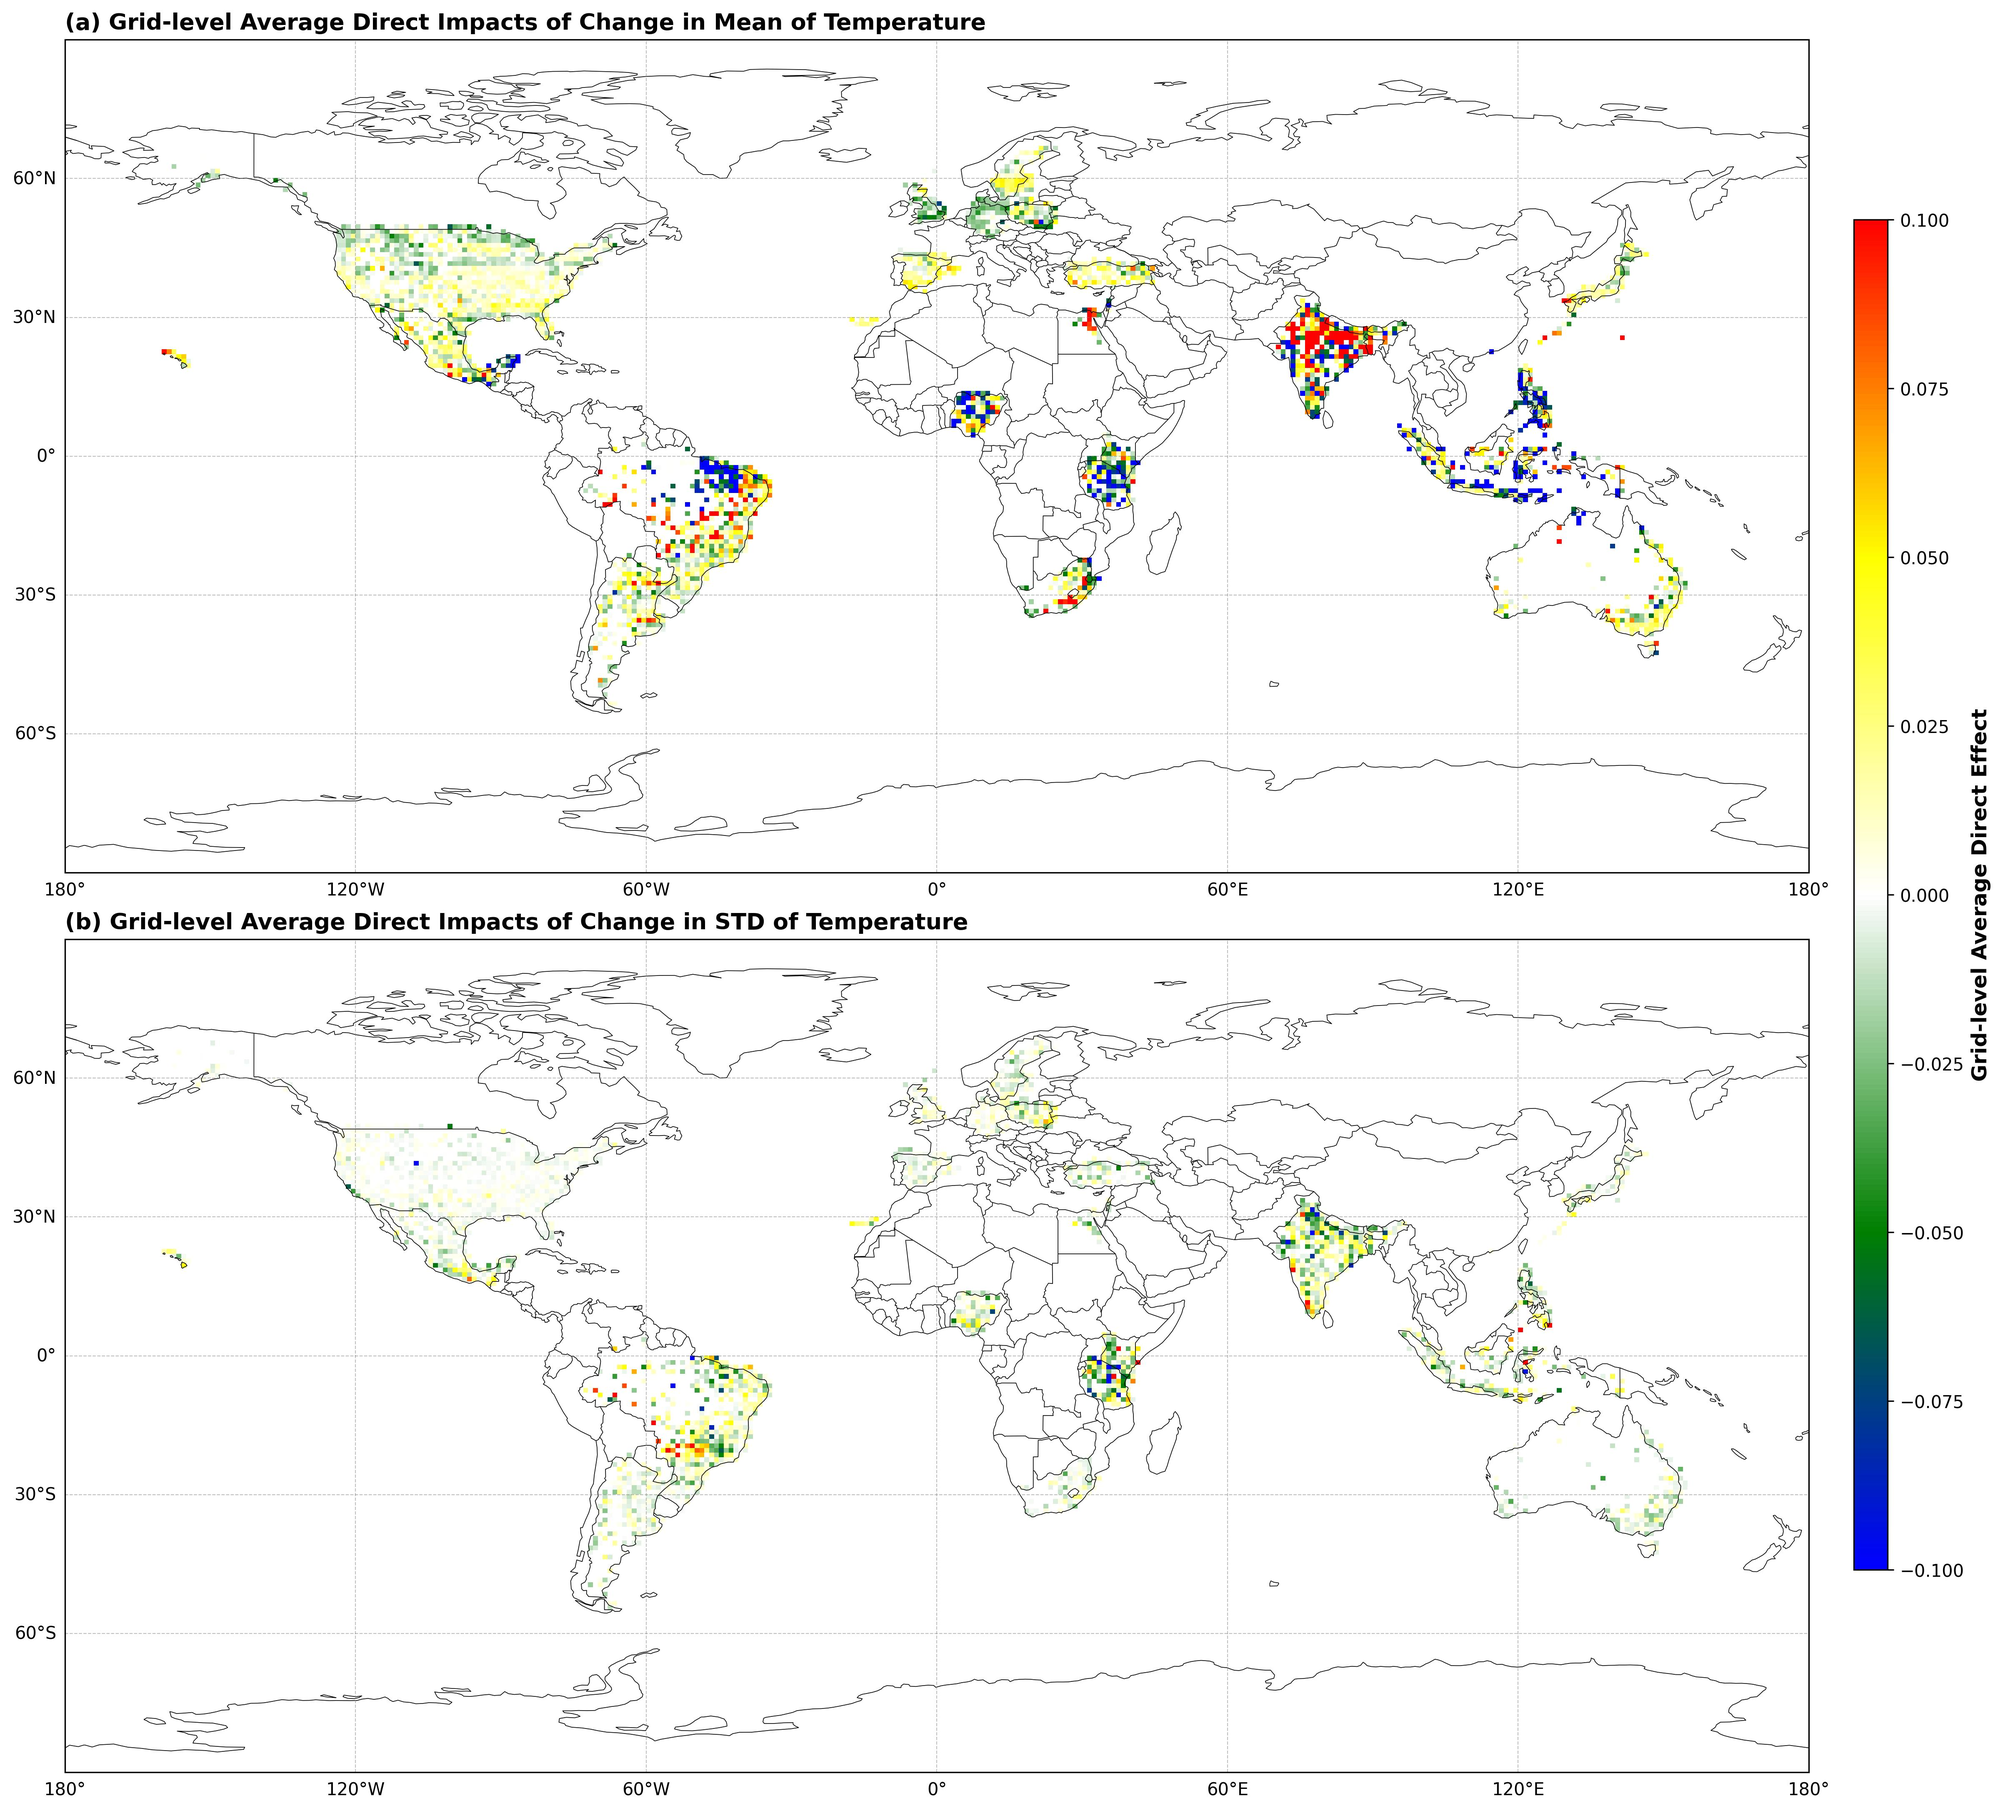
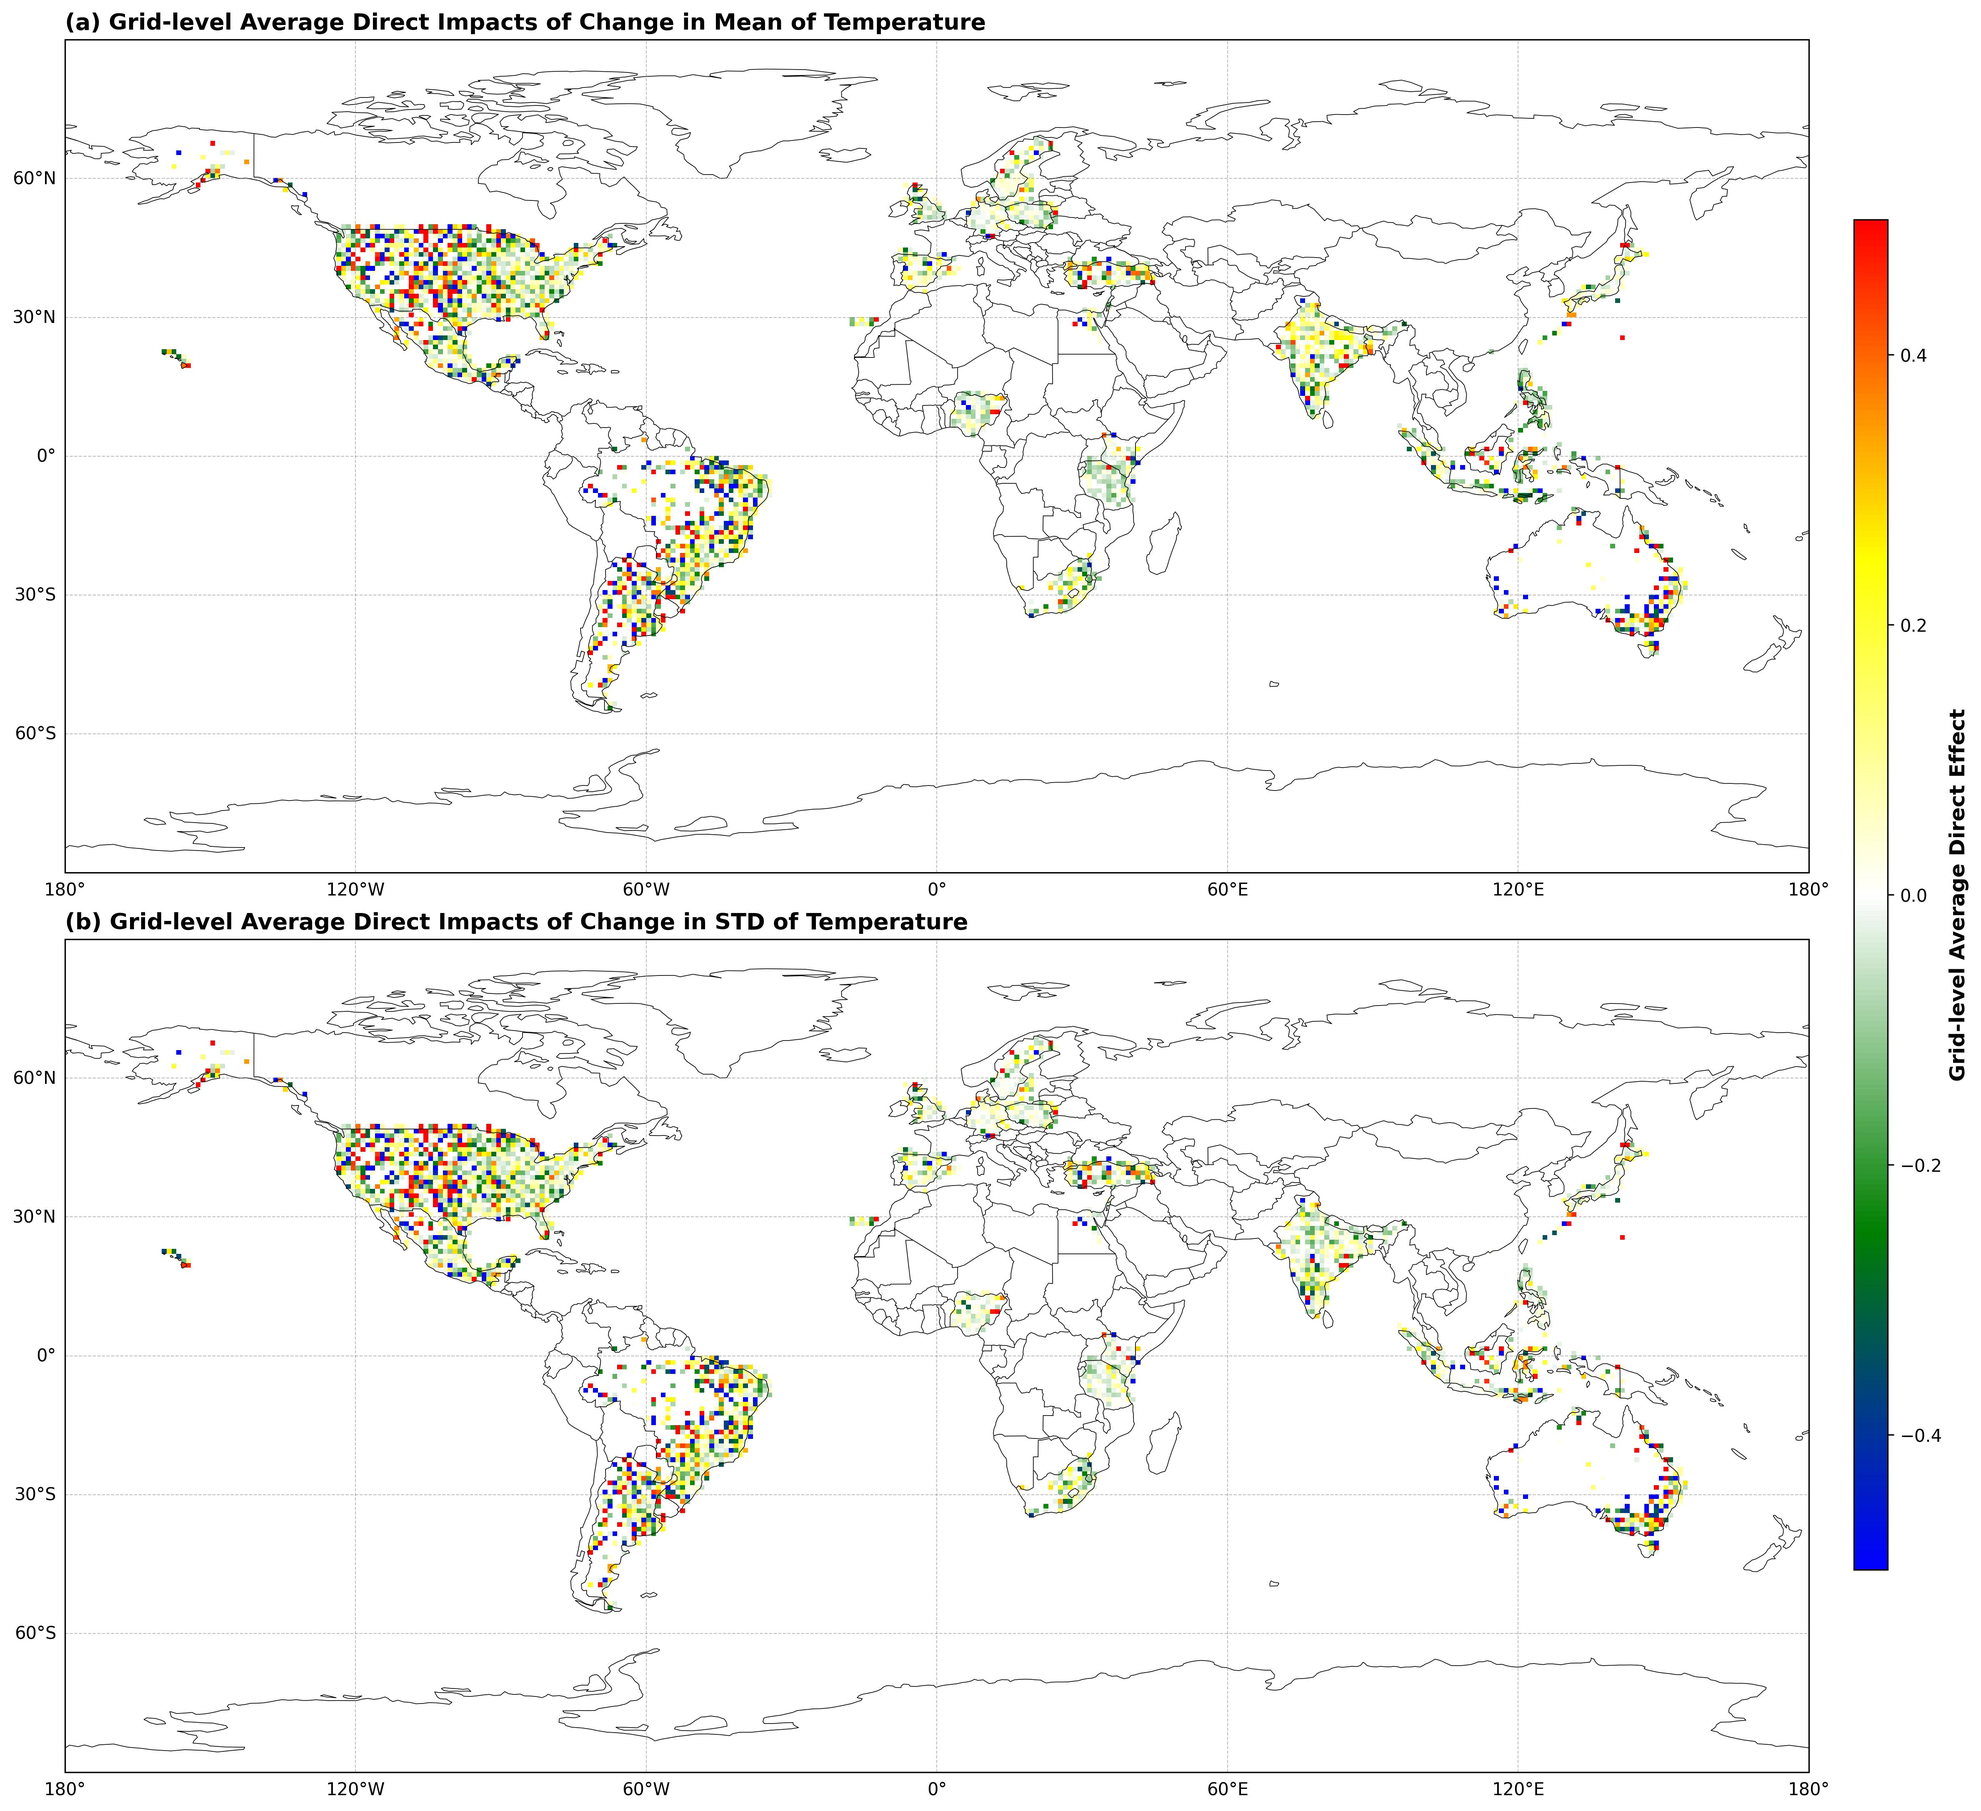
fix: change the mediate to prediction

diff --git a/nbs/c10_basic_physical_health_prediction.py b/nbs/c10_basic_physical_health_prediction.py
@@ -78,6 +78,14 @@ aim_variable = SettingForFeatures.return_aim_variable_ph()
 n_splits = 10
 
 # %%
+mediates = SettingForFeatures.return_aim_mediate()
+
+# %%
+mediate1 = pd.read_parquet(os.path.join('results', f'prediction_{mediate_variables[0]}.parquet'))
+mediate2 = pd.read_parquet(os.path.join('results', f'prediction_{mediate_variables[1]}.parquet'))
+mediate3 = pd.read_parquet(os.path.join('results', f'prediction_{mediate_variables[2]}.parquet'))
+
+# %%
 
 # %% [markdown]
 # ### Test
@@ -92,6 +100,9 @@ X, y = Modelling.prepare_data(
     always_inputs = always_inputs,
     aim_variable = aim_variable,
 )
+X[mediate_variables[0]] = mediate1[mediate_variables[0]]
+X[mediate_variables[1]] = mediate2[mediate_variables[1]]
+X[mediate_variables[2]] = mediate3[mediate_variables[2]]
 
 y_df = pd.DataFrame(np.full(
     shape = (X.shape[0], prediction_times), 

diff --git a/nbs/c20_visualization_of_data.py b/nbs/c20_visualization_of_data.py
@@ -749,8 +749,8 @@ for i, (ax, effect_variable, title) in enumerate(
         transform=ccrs.PlateCarree(),
         cmap=custom_cmap_white,
         aspect="auto",
-        vmin=-0.1,
-        vmax=0.1
+        vmin=-0.5,
+        vmax=0.5
     )
 
     # Borders and coastlines
@@ -859,8 +859,8 @@ for i, (ax, effect_variable, title) in enumerate(
         transform=ccrs.PlateCarree(),
         cmap=custom_cmap_white,
         aspect="auto",
-        vmin=-2,
-        vmax=2
+        vmin=-1,
+        vmax=1
     )
 
     # Borders and coastlines
